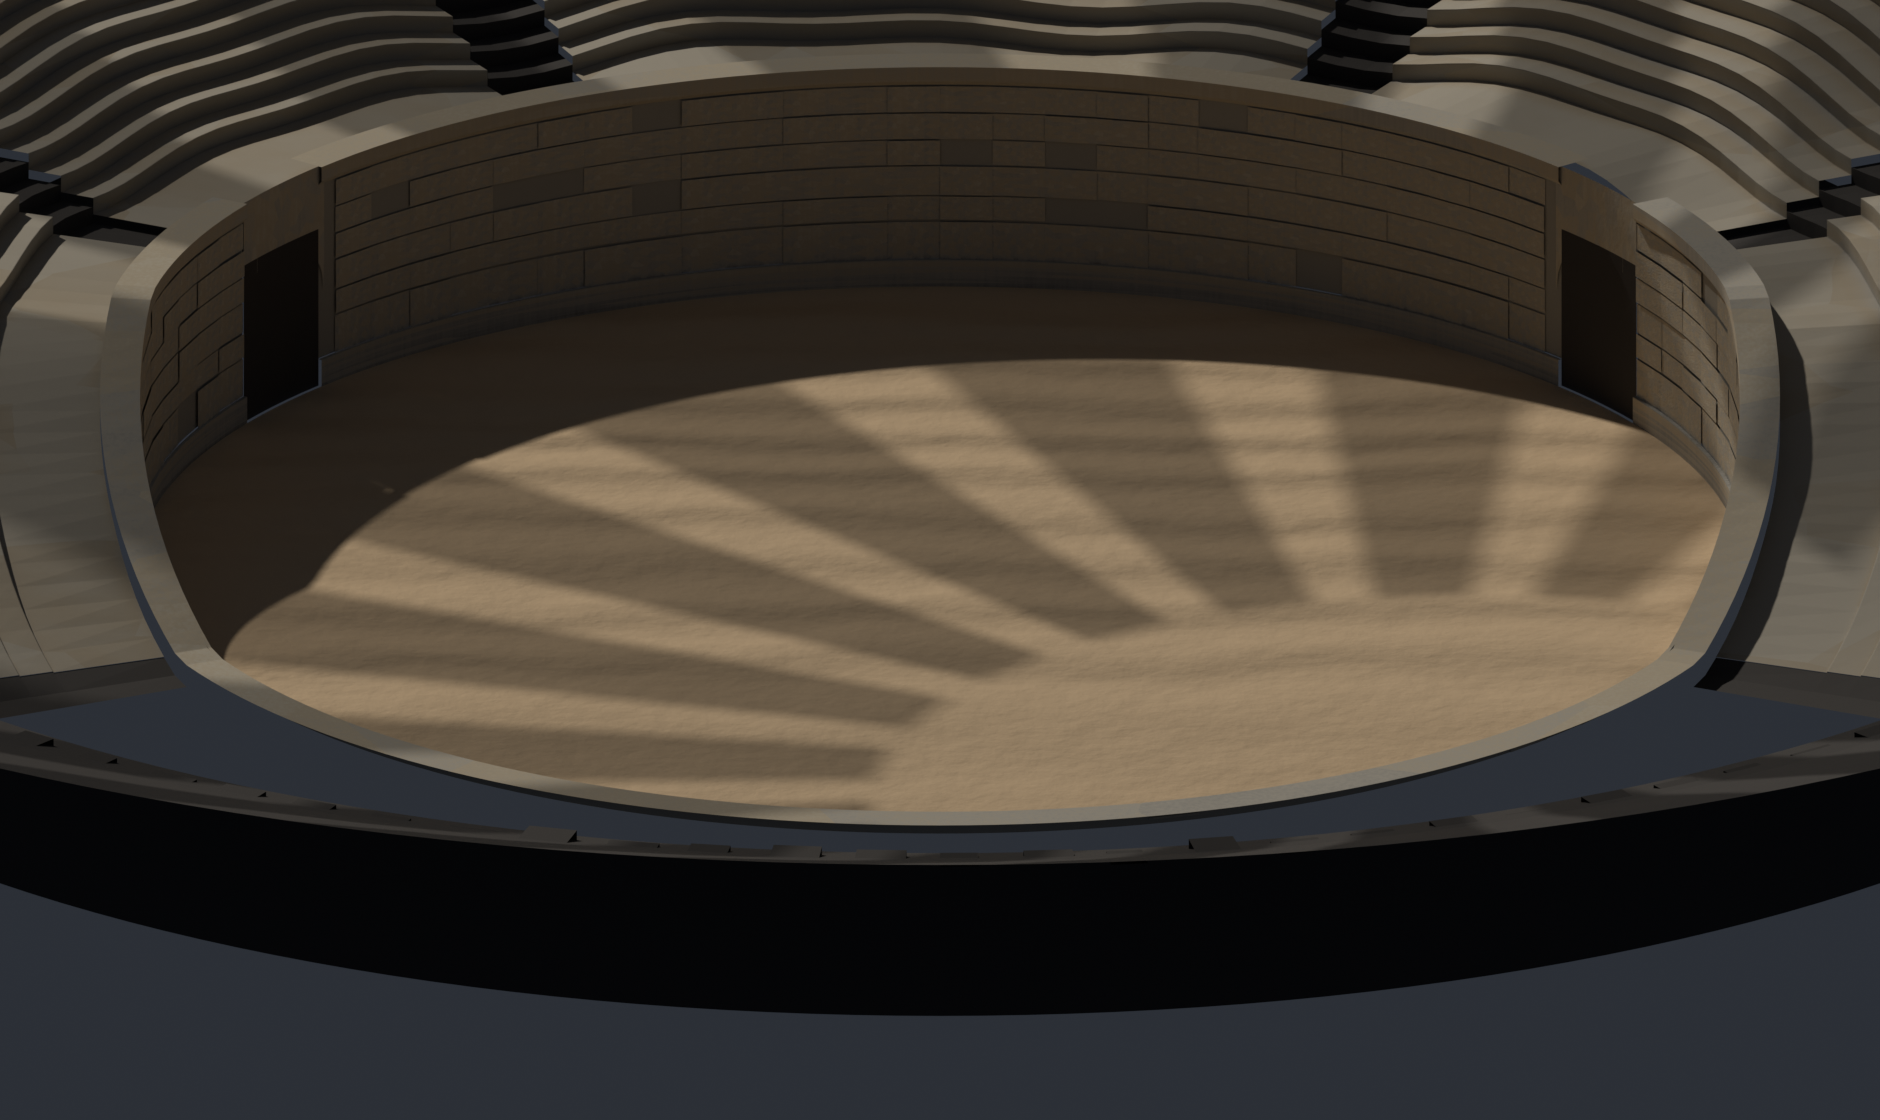
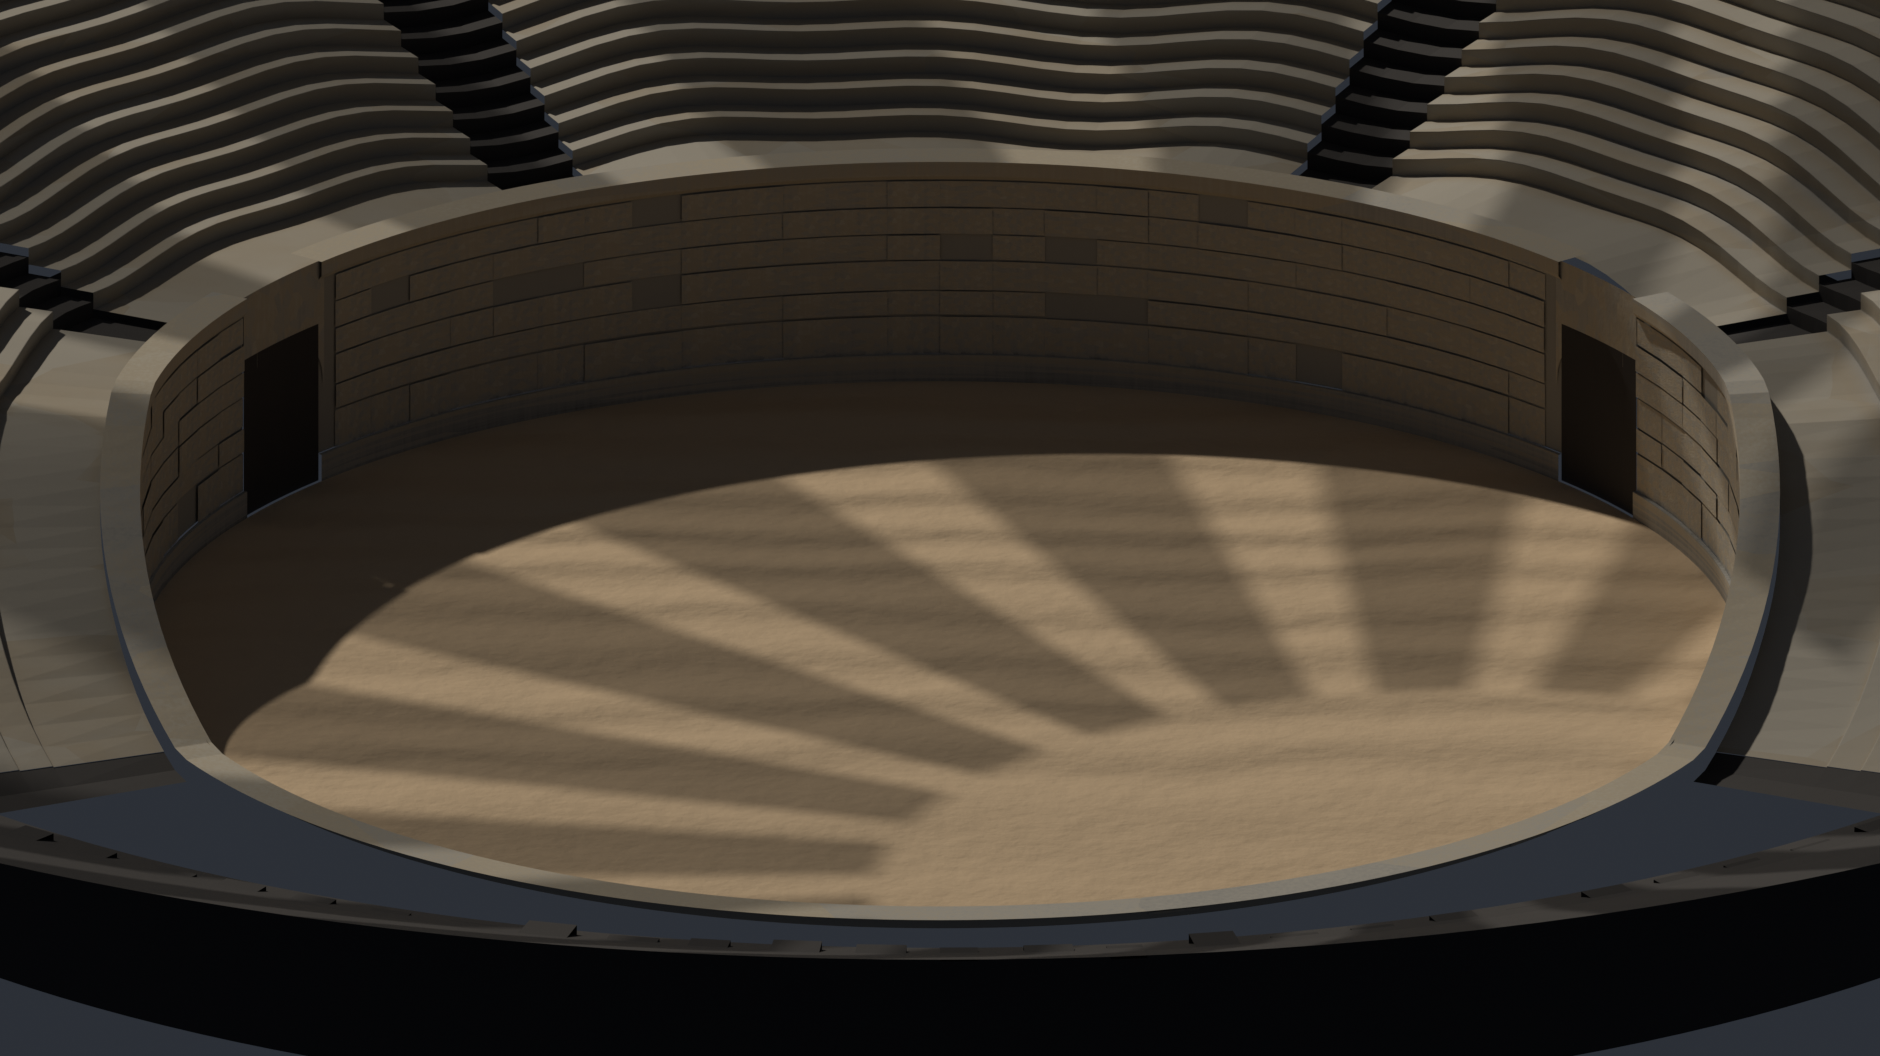
feat(arena): 16:9(940x528) · 하단 여백 26%→12% · 관중을 28px 실루엣으로
라니스타 지시 3건.

16:9 — H 560 → 528. 화면비 1.7803(16:9=1.7778), PX=2로도 정확히 나뉜다.
전체화면 목표(3번)를 위해 지금 정해두면 재베이크가 한 번으로 끝난다.

하단 여백 — CamHeight 0.50 → 0.62. 아레나가 191~463으로 내려가 아래 여백이
144px(25.7%) → 65px(12.2%)로 줄고, 그만큼 위가 늘어 관중석이 더 보인다.
베이크 카메라도 제 up축으로 (CamHeight−0.5)·H/33.33 m 만큼 올려 맞췄다.
두 값은 한 세트다 — 한쪽만 바꾸면 배경과 플레이 타원이 어긋난다.

관중 28px 실루엣 — 원인은 축척 착오였다. 높이 축척 31.3px/m라 1.8m 사람은
기하학적으로 56px인데 1.7px 점으로 찍고 있었다(1/33). 검투사가 이미 실물의
2.13배(FIGH=120)로 과장돼 있으므로 관중만 엄밀할 이유가 없다 → 실물의 절반인
28px. 56px 실물 크기는 애써 구운 좌석 디테일을 덮는다.
머리+어깨 실루엣, 역광이라 어둡게 + 가장자리 림. 화면 간격으로 솎아
(각도로 솎으면 옆쪽만 촘촘해진다) 뒷열부터 그려 앞열이 위로 겹치게.

돌리 시퀀스(1단계) 베이크 지원도 추가: --dolly N 으로 줌 경로 위 N장을
실제 렌더한다. 프레임 f의 tilt·zoom은 뷰어가 매 프레임 계산하는 것과 같은
식이고, 정사영에서 '가까이 감'은 ortho 폭을 줄이는 것이다.

검증: 플레이 타원 겹쳐 정렬 확인 · 콘솔 0 · designlint 0.

diff --git a/Morituri/Morituri.Headless/viewer.html b/Morituri/Morituri.Headless/viewer.html
@@ -141,7 +141,7 @@ const screenCtx = cv.getContext('2d');
 // 참조만 갈아끼우는 방식(아래 PIXEL 주석 참고). 그래서 const가 아니라 let이다.
 let ctx = screenCtx;
 const DPR = Math.min(window.devicePixelRatio || 1, 2);
-const W = 940, H = 560, PAD = 70, GROUND = H - 70;   // 논리 좌표계(모든 그리기 기준). 세로는 [15]§2.4 개정으로 440→560
+const W = 940, H = 528, PAD = 70, GROUND = H - 70;   // 논리 좌표계(모든 그리기 기준). 세로는 [15]§2.4 개정으로 440→560
 
 // ── 픽셀 렌더 (M4-c) ──────────────────────────────────────────────────────────
 // 월드(아레나·스프라이트·혈흔)는 1/PX 크기의 저해상 캔버스에 그린 뒤 정수배로 확대한다.
@@ -178,7 +178,7 @@ fitWorldCanvas();
 // 전환 순간 바닥이 튀지 않는다. 스프라이트는 20° 한 벌만 쓴다 — 96px에서 5° 차이는 윤곽선 위
 // 1px 이동으로만 나타나 인지되지 않는다(측정: 차이 픽셀의 전부가 외곽선). 두 벌은 영구 2배
 // 유지비와 전환 팝을 부르는데 얻는 게 없다.
-const CamHeight = 0.50;
+const CamHeight = 0.62;
 const TiltBasic = +(_qs.get('tilt')     || 0.34);   // 부각 20° — 스프라이트 베이크 각도와 일치
 const TiltZoom  = +(_qs.get('tiltzoom') || 0.26);   // 부각 15° — 바닥만 눕는다
 let CamTilt = TiltBasic;
@@ -306,20 +306,42 @@ function paintCrowd(c, tilt){
   const cut = d => d <= 65 ? 0 : (d >= 100 ? 1 : (d - 65) / 35);
   // 윗열은 베이크에서 ruin()으로 불규칙하게 깎였다 — 그 곡선을 여기서 재현할 수 없으니
   // 영향이 적은 아래 16열만 쓴다. 어차피 윗열은 대부분 프레임 밖이다(§10.11).
-  for (let k = 0; k < 16; k++){
+  // ── 크기: 점이 아니라 **사람**이어야 한다 ──────────────────────────────────
+  // 높이 축척 mz = 31.3 px/m 이므로 1.8 m 사람은 기하학적으로 56 px다.
+  // 그런데 검투사는 FIGH=120 px로 이미 실물의 2.13배로 과장돼 있다(§2.4.1).
+  // 초판은 관중을 1.7 px 점으로 찍었다 — 옳은 크기의 1/33이라 **모래알로 보였다.**
+  // 관중만 엄밀할 이유가 없으므로 실물의 절반인 28 px로 맞춘다. 56 px 실물 크기는
+  // 애써 구운 좌석 디테일을 통째로 덮는다.
+  const PH = 28, PW = 9;                       // 사람 높이 · 어깨 너비(논리 px)
+  // 뒷열부터 그려야 앞열이 위로 겹친다(뒷열 = 큰 k = 화면 위쪽)
+  for (let k = 5; k >= 0; k--){
     const r = 14.4 + 0.55 * k, z0 = 3.5 + 0.30 * (k + 1);
-    for (let i = 0; i < 300; i++){
-      const aDeg = i * 1.2 + rnd() * 1.2;
+    let lastX = -1e9, lastY = 0;
+    for (let i = 0; i < 1600; i++){
+      const aDeg = i * (360 / 1600);
       const kf = cut(Math.abs(((aDeg - 270 + 180) % 360) - 180));
       if (kf <= 0.02) continue;
       const z = z0 * kf;                       // 컷어웨이 구간은 좌석도 눌려 있다
       const [sx, sy] = pt(aDeg, r, z);
       const wallY = pt(aDeg, WALL_R, WALL_Z)[1];
       if (sy > wallY - 1.5) continue;          // 벽에 가리는 자리 — 찍으면 벽 위에 떠 버린다
-      if (sx < -6 || sx > W + 6 || sy < -6 || sy > H) continue;
-      const warm = rnd();
-      c.fillStyle = `rgba(${180 + warm * 60 | 0},${142 + warm * 48 | 0},${96 + warm * 38 | 0},${0.30 + rnd() * 0.45})`;
-      c.fillRect(sx, sy - 1.1, 1.5, 1.9);
+      if (sx < -PW || sx > W + PW || sy < -PH || sy > H) continue;
+      // 화면상 간격으로 솎는다 — 각도로 솎으면 옆쪽에서만 촘촘해진다
+      if (Math.hypot(sx - lastX, sy - lastY) < PW * 1.25 + rnd() * 5) continue;
+      lastX = sx; lastY = sy;
+      const w = PW * (0.82 + rnd() * 0.36), h = PH * (0.86 + rnd() * 0.28);
+      const hd = w * 0.42;                     // 머리 반지름
+      // 태양이 뒤쪽(좌상)에 있어 관중은 역광이다 — 어두운 실루엣에 가장자리만 밝다
+      c.fillStyle = `rgba(${28 + rnd() * 26 | 0},${22 + rnd() * 20 | 0},${18 + rnd() * 16 | 0},0.93)`;
+      c.beginPath();                           // 어깨
+      c.ellipse(sx, sy - h * 0.30, w * 0.5, h * 0.34, 0, 0, 7); c.fill();
+      c.beginPath();                           // 머리
+      c.arc(sx, sy - h * 0.72, hd, 0, 7); c.fill();
+      if (rnd() < 0.55){                       // 역광 림 — 절반만 넣어 줄이 안 서게
+        const warm = rnd();
+        c.fillStyle = `rgba(${210 + warm * 45 | 0},${176 + warm * 42 | 0},${128 + warm * 40 | 0},0.5)`;
+        c.fillRect(sx - w * 0.5, sy - h * 0.86, w * 0.34, 1.6);
+      }
     }
   }
   c.restore();

diff --git a/Morituri/tools/arenabake/blockout.py b/Morituri/tools/arenabake/blockout.py
@@ -26,7 +26,7 @@ from mathutils import Vector
 ARENA_R   = 12.0          # Sim ArenaRadius (§1) — 이 원 안에는 아무것도 세우지 않는다
 PX_PER_M  = 400.0 / 12.0
 ORTHO_W   = 940.0 / PX_PER_M      # 28.2 m
-ASPECT    = 940.0 / 560.0   # [15]§2.4 개정 — 무대 세로 560(라니스타 결정 ⓒ)
+ASPECT    = 940.0 / 528.0   # [15]§2.4 — 16:9(1.780). 세로 528은 PX=2로도 정확히 나뉜다
 ELEV      = 20.0                  # 기본 부각 (§2.4.1). 줌 벌은 15°
 SUN_AZ, SUN_EL = 233.0, 41.0      # §3.3
 
@@ -38,6 +38,8 @@ def parse_args():
     p.add_argument("--out", default="blockout.png")
     p.add_argument("--res", type=int, default=940)
     p.add_argument("--elevation", type=float, default=ELEV)
+    p.add_argument("--cam-height", type=float, default=0.62,
+                   help="뷰어 CamHeight와 같은 값. 아레나를 아래로 내려 하단 여백을 줄인다")
     p.add_argument("--samples", type=int, default=48)
     p.add_argument("--exposure", type=float, default=-0.35, help="Standard 변환은 하이라이트가 바로 탄다")
     p.add_argument("--values", action="store_true",
@@ -55,6 +57,13 @@ def parse_args():
     p.add_argument("--ruin", type=float, default=0.22, help="무너진 윗선 진폭(0=평평)")
     p.add_argument("--cut-keep", type=float, default=65.0, help="앞쪽 컷어웨이 각반경(도)")
     p.add_argument("--cut-fade", type=float, default=35.0, help="컷어웨이 페이드 폭(도)")
+    # ── 돌리 시퀀스([15]§10.17) — 줌 경로를 따라 N장을 실제로 렌더한다 ──────────
+    # 줌은 **정해진 1차원 경로**다(zoomFrac 0→1). 그 위의 프레임을 미리 구워 두면
+    # 부각이 연속으로 낮아지고 크로스페이드 이중상이 사라진다. 런타임 3D는 0.
+    p.add_argument("--dolly", type=int, default=0, help="돌리 프레임 수(0=끔). 24 권장")
+    p.add_argument("--zoom-follow", type=float, default=1.6, help="뷰어 ZoomFollow와 같은 값")
+    p.add_argument("--tilt-basic", type=float, default=0.34)
+    p.add_argument("--tilt-zoom", type=float, default=0.26)
     return p.parse_args(argv)
 
 
@@ -573,6 +582,13 @@ def setup(a):
     D = 80.0
     cam.location = (0.0, -D * math.cos(el), D * math.sin(el))
     cam.rotation_euler = (math.radians(90.0) - el, 0.0, 0.0)
+    # 프레이밍 — 아레나를 화면 아래로 내려 하단 여백을 줄인다([15]§2.4).
+    # 카메라를 제 up축으로 올리면 피사체는 화면에서 내려간다.
+    #   화면 이동(px) = (CamHeight − 0.5)·H   →   월드 이동(m) = 그 값 / (RX/ArenaRadius)
+    # ⚠ **뷰어 CamHeight와 반드시 같은 값**이어야 한다. 한쪽만 바꾸면 배경과 플레이 타원이 어긋난다.
+    up = Vector((0.0, math.sin(el), math.cos(el)))
+    cam.location = tuple(Vector(cam.location)
+                         + up * ((a.cam_height - 0.5) * (940.0 / ASPECT) / PX_PER_M))
     bpy.context.collection.objects.link(cam)
     sc.camera = cam
 
@@ -673,12 +689,50 @@ def _unused_setup_normal_pass(out_dir, name):
     nt.links.new(addn.outputs[0], fo.inputs[0])
 
 
+def render_dolly(a, out):
+    """줌 경로 위의 N장을 굽는다([15]§10.17 · 1단계 정사영).
+
+    프레임 f의 값은 **뷰어가 매 프레임 계산하는 것과 같은 식**이다:
+        frac   = f / (N−1)
+        CamTilt= TiltBasic + (TiltZoom − TiltBasic)·frac      (§2.4.3)
+        camZoom= 1 + (ZoomFollow − 1)·frac
+    정사영에서 '가까이 감'은 **ortho 폭을 줄이는 것**이다 → ORTHO_W / camZoom.
+    부각은 tilt에서 역산한다(elevation = asin(CamTilt)) — §2.4.4 규칙 1과 같은 관계.
+
+    ⚠ 이 벌은 **줌이 이미 구워져 있으므로** 뷰어가 다시 확대하면 안 된다.
+      뷰어는 배경을 카메라 변환 **밖에서** 그리고 팬(pan)만 적용해야 한다(§10.17).
+    """
+    sc = bpy.context.scene
+    cam = sc.camera
+    base = os.path.splitext(out)[0]
+    N = a.dolly
+    for f in range(N):
+        frac = f / max(1, N - 1)
+        tilt = a.tilt_basic + (a.tilt_zoom - a.tilt_basic) * frac
+        zoom = 1.0 + (a.zoom_follow - 1.0) * frac
+        el = math.asin(max(-1.0, min(1.0, tilt)))
+        cam.data.ortho_scale = ORTHO_W / zoom
+        D = 80.0
+        cam.location = (0.0, -D * math.cos(el), D * math.sin(el))
+        cam.rotation_euler = (math.radians(90.0) - el, 0.0, 0.0)
+        up = Vector((0.0, math.sin(el), math.cos(el)))
+        # 프레이밍 이동도 줌에 비례한다 — 화면 픽셀 기준이 같아야 하므로 월드에서는 1/zoom
+        cam.location = tuple(Vector(cam.location)
+                             + up * ((a.cam_height - 0.5) * (940.0 / ASPECT) / PX_PER_M / zoom))
+        sc.render.filepath = "%s_%02d.png" % (base, f)
+        bpy.ops.render.render(write_still=True)
+        print("WROTE %s_%02d.png  (frac %.3f · tilt %.4f · zoom %.3f)" % (base, f, frac, tilt, zoom))
+
+
 def main():
     a = parse_args()
     clear()
     build(a)
     setup(a)
     out = a.out if os.path.isabs(a.out) else os.path.join(os.path.dirname(os.path.abspath(__file__)), a.out)
+    if a.dolly > 0:
+        render_dolly(a, out)
+        return
     bpy.context.scene.render.filepath = out
     bpy.ops.render.render(write_still=True)
     print("WROTE", out)
